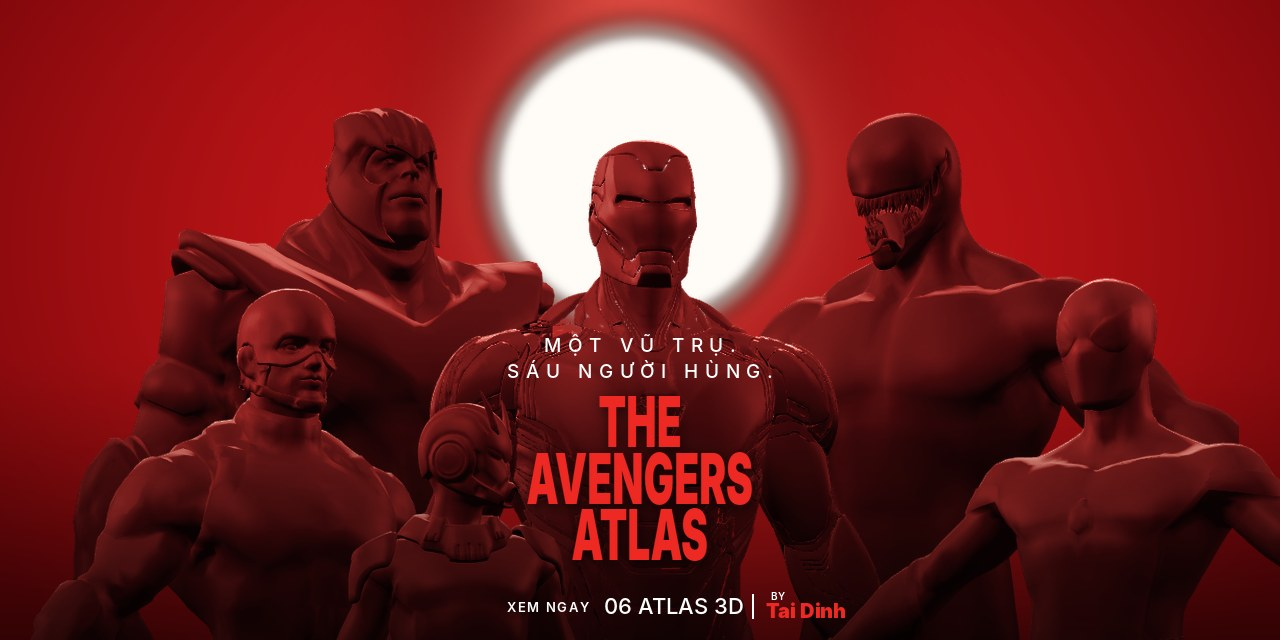
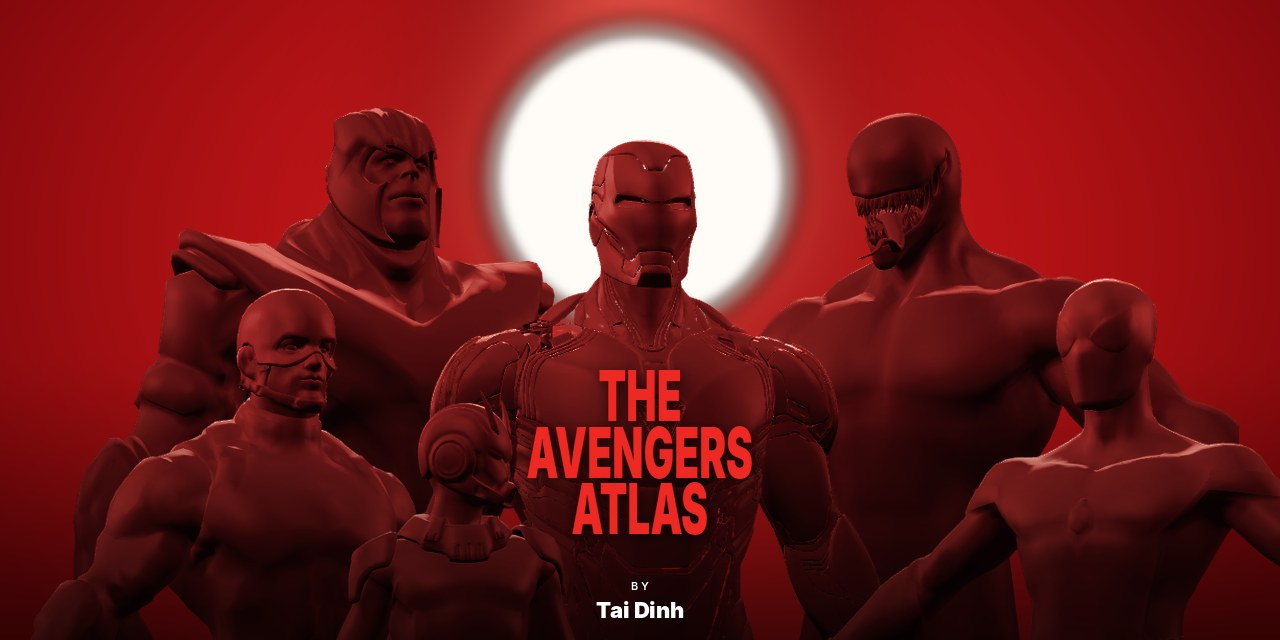
Thumbnail: bỏ câu khẩu hiệu và dòng Xem ngay, chỉ giữ by Tai Dinh
Claude-Session: https://claude.ai/code/session_01KCPhfAxJRaXee7hSJKBeY1

Changed region(s): [[0.375, 0.5312, 0.5938, 0.875], [0.4062, 0.9375, 0.6562, 0.9688]]

diff --git a/index.html b/index.html
@@ -27,12 +27,12 @@
 <meta property="og:type" content="website">
 <meta property="og:title" content="The Avengers Atlas">
 <meta property="og:description" content="Bộ sưu tập atlas 3D về các thành viên Avengers. Xoay mô hình, bấm từng bộ phận và đọc cách nó hoạt động.">
-<meta property="og:image" content="https://taidinh93esd.github.io/TheAvengersAtlas/og.jpg?v=4">
+<meta property="og:image" content="https://taidinh93esd.github.io/TheAvengersAtlas/og.jpg?v=5">
 <meta property="og:image:width" content="1280">
 <meta property="og:image:height" content="640">
 <meta property="og:url" content="https://taidinh93esd.github.io/TheAvengersAtlas/">
 <meta name="twitter:card" content="summary_large_image">
-<meta name="twitter:image" content="https://taidinh93esd.github.io/TheAvengersAtlas/og.jpg?v=4">
+<meta name="twitter:image" content="https://taidinh93esd.github.io/TheAvengersAtlas/og.jpg?v=5">
 <link rel="preconnect" href="https://fonts.googleapis.com">
 <link rel="preconnect" href="https://fonts.gstatic.com" crossorigin>
 <link href="https://fonts.googleapis.com/css2?family=Newsreader:ital,opsz,wght@0,6..72,400;1,6..72,400&family=Inter+Tight:wght@500;600&family=Oswald:wght@500;600&display=swap" rel="stylesheet">
